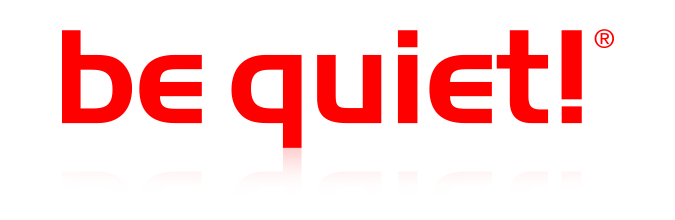
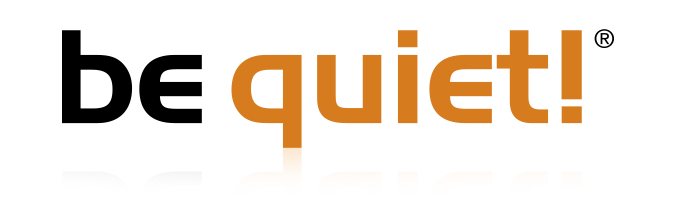
Modification des image et ajout des fonction js dans la page d'accueil

Changed region(s): [[0.3422, 0.1364, 0.9333, 0.6818], [0.0933, 0.1364, 0.3111, 0.5727], [0.5911, 0.1364, 0.6222, 0.2182]]

diff --git a/View/Top.php b/View/Top.php
@@ -7,6 +7,7 @@
         <title>Warten Site - Accueil</title>
         <link rel="icon" type="image/png" href="img/logo.png" />
         <?php include('css/config_css.php');?>
+        <?php include('js/config_js.php');      ?>
     </head>
 
     <body>
@@ -56,7 +57,12 @@
                 <div class="box">
                     <?php
                 for($i = 0;$i<count($imageSponsor);$i++){
-                   echo '<a href="'.$lienSponsor[$i].'"><img src="img/'.$imageSponsor[$i].'.png" class="sponsor" style="margin-left:'.$positionSponsor.'%;"></a>';
+                   echo '<a href="'.$lienSponsor[$i].'">
+                 <img src="img/'.$imageSponsor[$i].'.png" 
+                 onmouseover="changeImage(this,'.$i.',true)" 
+                 onmouseout="changeImage(this,'.$i.',false)"
+                 class="sponsor" style="margin-left:'.$positionSponsor.'%;">
+                 </a>';
                 }
                     
                 ?>

diff --git a/View/Sponsor.php b/View/Sponsor.php
@@ -1,4 +1,4 @@
-
+<!-- Ceci est le slider.... Et pas les sponsors --> 
 
     <!--Slider-->
         <div class="slider_container">
@@ -9,14 +9,14 @@
         <div class="cellule_container">
            <div class="center_image">
             <div class="cellule_articles">
-                        <?php
+                    <?php
+                                // ????? Pas de JS  
+                                foreach ($unSponsor as $LesSponsors) {
+                                    echo $unSponsor->get_nom();
+                                    echo $unSponsor->get_texte_fr();
+                                }
 
-foreach ($unSponsor as $LesSponsors) {
-	echo $unSponsor->get_nom();
-	echo $unSponsor->get_texte_fr();
-}
-
-?>
+                    ?>
             </div>
             <div class="cellule_activity">
 

diff --git a/js/config_js.php b/js/config_js.php
@@ -7,8 +7,8 @@ echo "let javascript_array = ". $js_array . ";\n";
 const imgSlider = document.getElementsByClassName("img_slider");
 animateSlider();
 
-    
-function changeImage(imageSource,i,choose){
+// JS hover autogeneration
+function changeImage(imageSource,i,choose){ // Image nom , incrementation de la boucle,choix entre hover et nonHover
     if(choose){
     let img = new Image();
     img.src = "img/"+ javascript_array[i] +"hover.png";   

diff --git a/Param.inc.php b/Param.inc.php
@@ -2,7 +2,7 @@
 <?php
 class Param{
     public static $login="root";
-    public static $mdp="root";
+    public static $mdp="";
     public static $dsn = 'mysql:host=localhost:3306;dbname=warten;charset=utf8';
 }
 ?>
